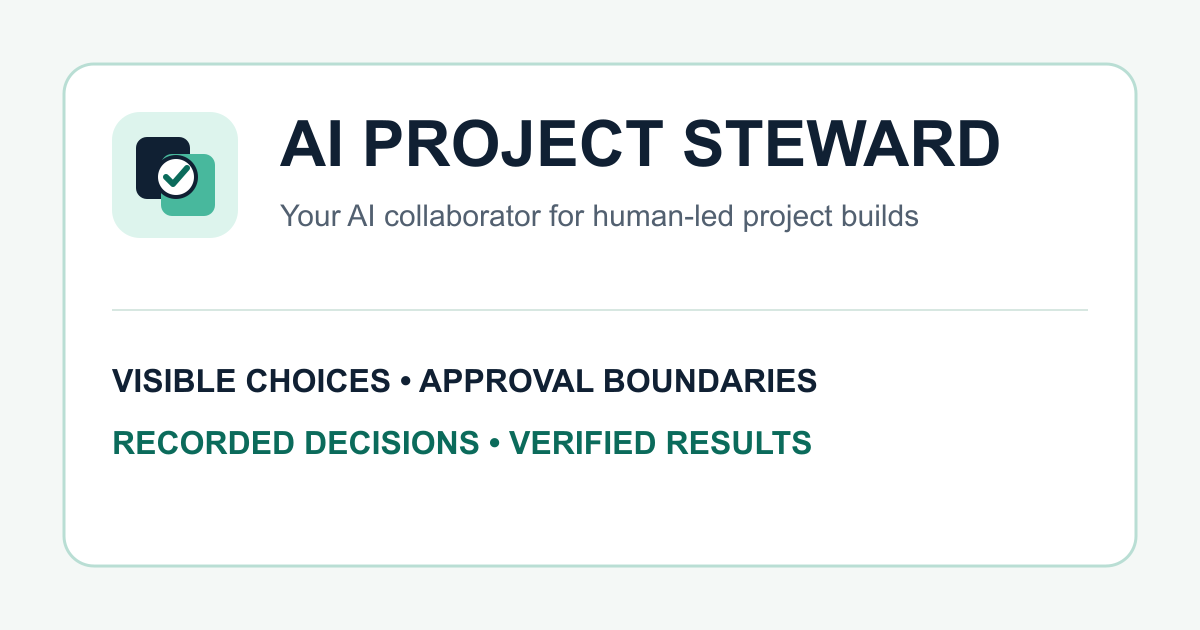
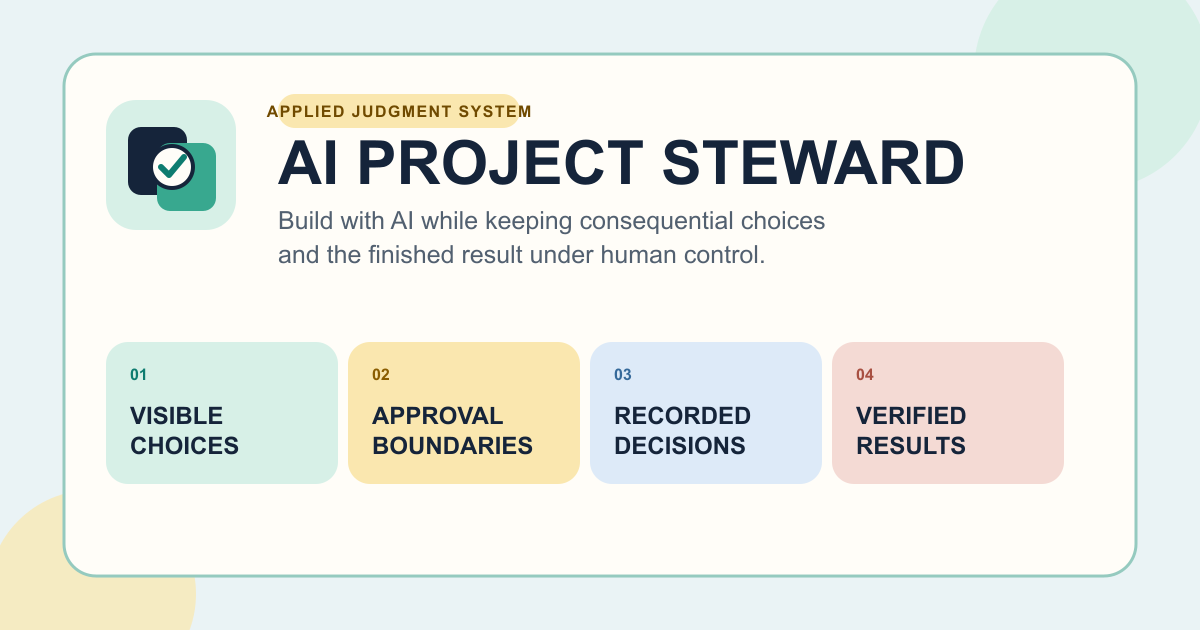
Refresh AI Project Steward identity

diff --git a/ai-project-steward/index.html b/ai-project-steward/index.html
@@ -70,7 +70,7 @@
     <section class="hero">
       <p class="kicker">Applied Judgment System · Apps, prototypes, automations, and integrations</p>
       <h1>AI Project Steward</h1>
-      <p>Your AI collaborator for human-led project builds. It keeps consequential choices visible, preserves approval boundaries, records accepted decisions, and verifies the working result.</p>
+      <p>An operating skill for AI-assisted builds. It helps plan and execute the project while keeping human authority visible at consequential choices, preserving approval boundaries, recording accepted decisions, and verifying the working result.</p>
       <p>Install it as a portable skill and use it on its own, or after the judgment loop when earlier context and decisions should carry into implementation.</p>
       <div class="actions">
         <a class="button primary" href="https://github.com/glichtenthal/ai-project-steward/releases/download/v2.0.0/ai-project-steward.skill">Install skill</a>

diff --git a/index.html b/index.html
@@ -759,7 +759,7 @@
 
     <section class="start applied" aria-labelledby="applied-heading">
       <h2 id="applied-heading">Applied Judgment Systems</h2>
-      <p class="workflow-intro">Applied Judgment Systems carry human-led judgment into a specific domain or stage of work. AI Project Steward is the first, focused on moving from an idea or decision into implementation.</p>
+      <p class="workflow-intro">Applied Judgment Systems carry human-led judgment into a specific domain or stage of work. AI Project Steward helps plan and execute AI-assisted builds while keeping human authority visible at consequential choices and through the verified result.</p>
       <div class="applied-grid">
         <article class="skill steward">
           <img src="assets/ai-project-steward-social-preview.svg" alt="AI Project Steward mark and description">
